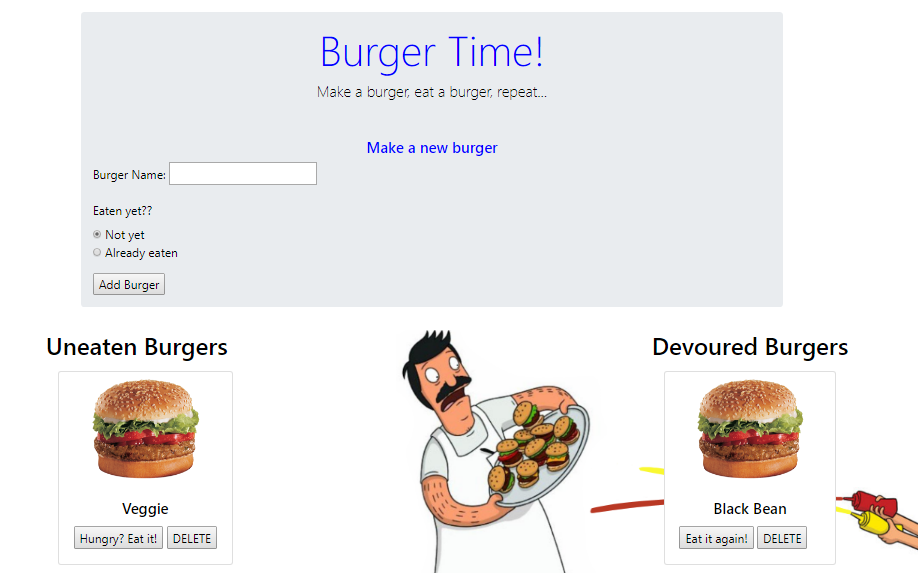
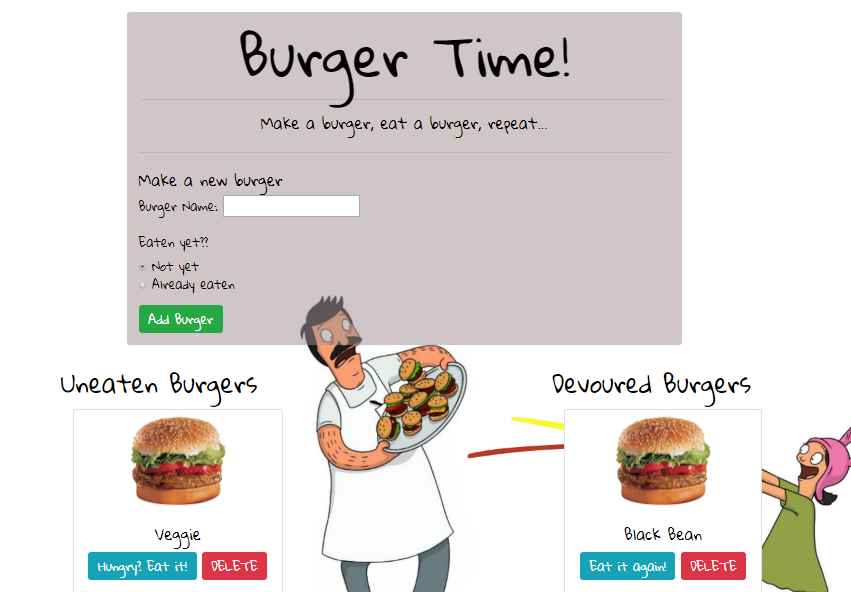
added fonts and bootstrap btns

diff --git a/public/assets/css/burger_style.css b/public/assets/css/burger_style.css
@@ -1,30 +1,25 @@
 * {
   color:black; 
+  font-family: 'Gloria Hallelujah', cursive;
+  font-size: 18px; 
 }
 
 body {
   background: url('/assets/img/bobsBurgers2.png'); 
+  background-repeat: no-repeat;
+  background-size: auto;
+
+
   margin: 50px;
   padding: 50px;
 }
 
-h2 {
-  color: rgb(206, 194, 194); 
+#jumbo {
+  background-color: rgba(161, 144, 144, 0.507); 
 }
 
-.jumbotron {
-  background: blue; 
-  background-color: blue; 
-  opacity: 50%; 
-  color: blue; 
-}
-
-.jumbotron > form-group {
-  color: black; 
-}
-
-img {
-  
+.jumbotron h1 {
+  font-size: 80px; 
 }
 
 ul {
@@ -37,4 +32,6 @@ ul {
 
 button {
   color: black; 
+  display: block;
+  margin: 0 auto 5px auto;
 }

diff --git a/config/connection.js b/config/connection.js
@@ -1,11 +1,16 @@
 const mysql = require('mysql'); 
+let connection;
 
-const connection = mysql.createConnection({
+if (process.env.JAWSDB_URL) {
+  connection = mysql.createConnection(process.env.JAWSDB_URL); 
+} else {
+  connection = mysql.createConnection({
   host: 'localhost', 
   user: 'root', 
   password: 'root', 
   database: 'burgers_db'
 }); 
+}; 
 
 connection.connect(function(err) {
   if (err) {
